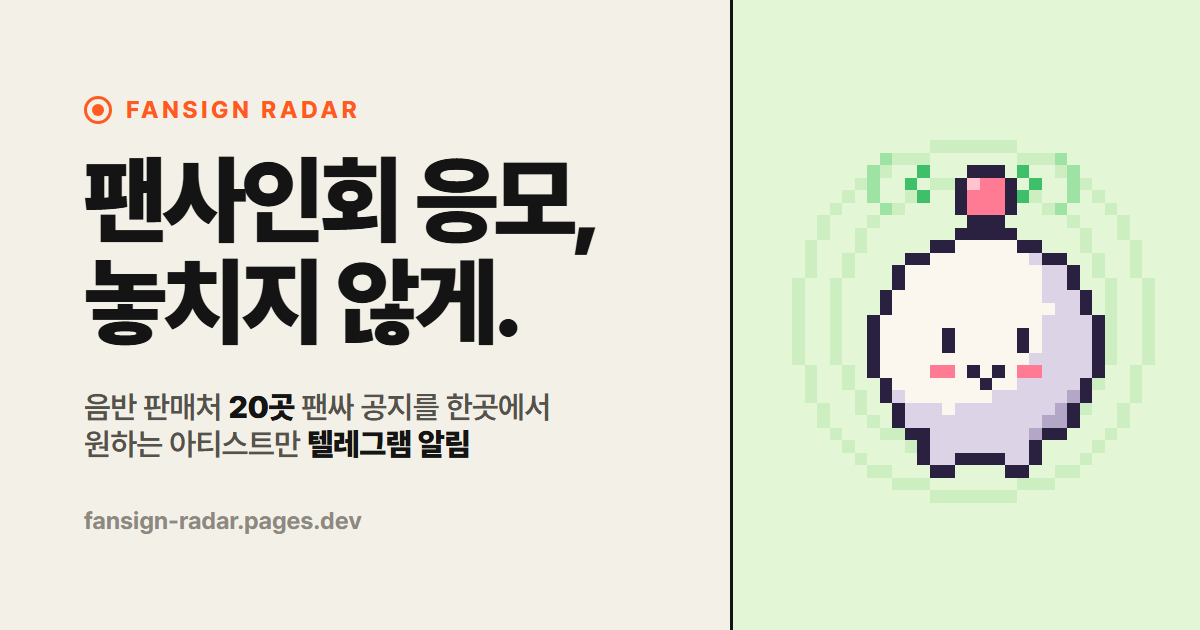
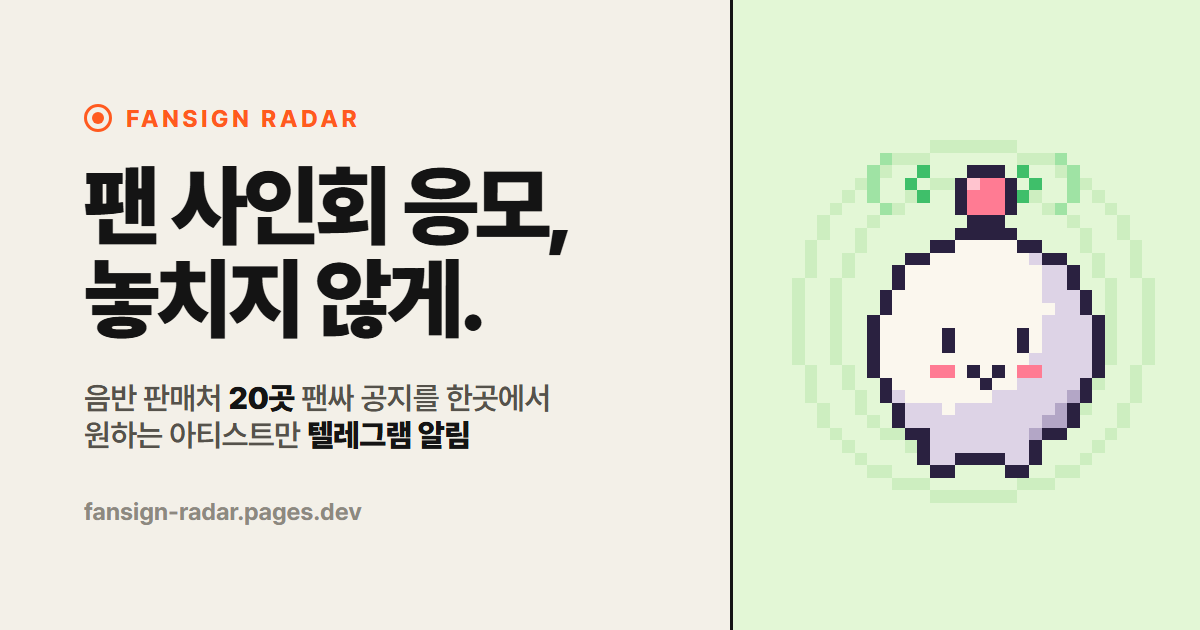
웹: 헤드라인 띄어쓰기(팬 사인회)

diff --git a/web/index.html b/web/index.html
@@ -13,19 +13,19 @@
 <meta name="apple-mobile-web-app-title" content="팬싸 레이더">
 <meta property="og:type" content="website">
 <meta property="og:site_name" content="팬싸 레이더">
-<meta property="og:title" content="팬싸 레이더 · 팬사인회 응모, 놓치지 않게.">
+<meta property="og:title" content="팬싸 레이더 · 팬 사인회 응모, 놓치지 않게.">
 <meta property="og:description" content="음반 판매처 20곳의 팬사인회(대면·영상통화) 응모 공지를 한곳에서. 원하는 아티스트만 텔레그램으로 알림.">
 <meta property="og:url" content="https://fansign-radar.pages.dev/">
-<meta property="og:image" content="https://fansign-radar.pages.dev/og.png?v=2">
+<meta property="og:image" content="https://fansign-radar.pages.dev/og.png?v=3">
 <meta property="og:image:type" content="image/png">
-<meta property="og:image:alt" content="팬싸 레이더 — 팬사인회 응모, 놓치지 않게.">
+<meta property="og:image:alt" content="팬싸 레이더 — 팬 사인회 응모, 놓치지 않게.">
 <meta property="og:locale" content="ko_KR">
 <meta property="og:image:width" content="1200">
 <meta property="og:image:height" content="630">
 <meta name="twitter:card" content="summary_large_image">
-<meta name="twitter:title" content="팬싸 레이더 · 팬사인회 응모, 놓치지 않게.">
+<meta name="twitter:title" content="팬싸 레이더 · 팬 사인회 응모, 놓치지 않게.">
 <meta name="twitter:description" content="음반 판매처 20곳의 팬사인회(대면·영상통화) 응모 공지를 한곳에서. 원하는 아티스트만 텔레그램으로 알림.">
-<meta name="twitter:image" content="https://fansign-radar.pages.dev/og.png?v=2">
+<meta name="twitter:image" content="https://fansign-radar.pages.dev/og.png?v=3">
 <link rel="stylesheet" href="https://cdn.jsdelivr.net/gh/orioncactus/pretendard@v1.3.9/dist/web/variable/pretendardvariable-dynamic-subset.min.css">
 <link rel="stylesheet" href="style.css">
 </head>
@@ -45,7 +45,7 @@
   <section class="hero">
     <div>
       <p class="kicker">FANSIGN RADAR · 20개 판매처</p>
-      <h1>팬사인회 응모,<br>놓치지 않게.</h1>
+      <h1>팬 사인회 응모,<br>놓치지 않게.</h1>
     </div>
     <dl class="stats">
       <div><dt>응모 중</dt><dd id="statLive">–</dd></div>
